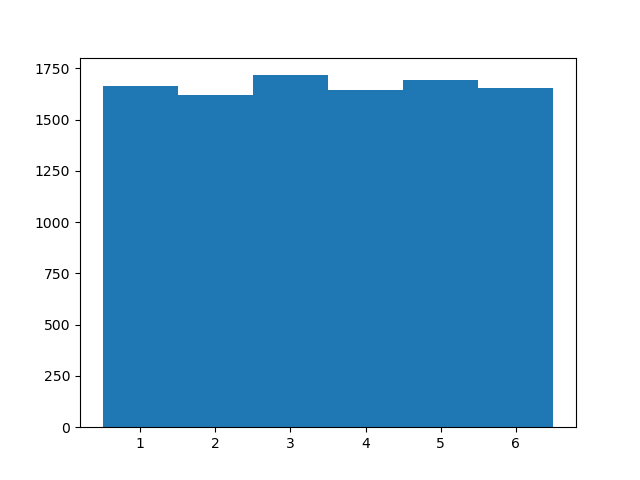
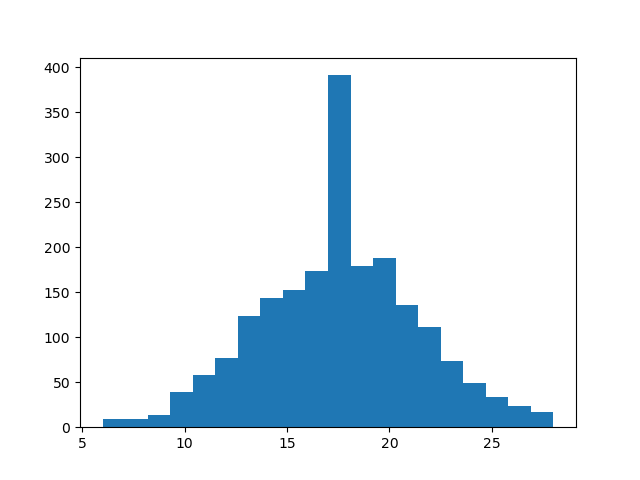
nearest_neighbors needs to have the loops resolved. Everything else works

diff --git a/lab6/np.exercises.py b/lab6/np.exercises.py
@@ -53,23 +53,17 @@ def simulate_dice_rolls(num_rolls, iterations):
     :return: 1-D NumPy array of length iterations, where each item is the
             sum of throwing a fair 6-sided die num_rolls times.
     """
-    histo_array = ([])
-    sum_roll_array = np.empty(iterations, dtype=int)
+
     sides_of_die = 6
-    for n in range(iterations):
-        die_array = np.arange(1, sides_of_die+1, 1)
-        all_rolls_array = np.empty(num_rolls, dtype=int)
-        for i in range(num_rolls):
-            roll = random.choice(die_array)
-            all_rolls_array[i] = roll
-        sum_roll_array[n] = all_rolls_array.sum()
-        histo_array = np.concatenate([histo_array, all_rolls_array])
-    d = np.diff(np.unique(histo_array)).min()
-    left_of_first_bin = histo_array.min() - float(d) / 2
-    right_of_last_bin = histo_array.max() + float(d) / 2
-    plt.hist(histo_array, np.arange(left_of_first_bin, right_of_last_bin + d, d))
+    die_number_set = list(range(1, sides_of_die+1))
+    random_rolls = np.random.randint(min(die_number_set), max(die_number_set)+1, iterations*num_rolls)
+    num_roll_sort = np.reshape(random_rolls, (iterations, num_rolls))
+    histo_array = np.sum(num_roll_sort, axis=1)
+
+    plt.hist(histo_array,20)
     plt.savefig('dice_{}_rolls_{}.png'.format(num_rolls, iterations))
-    return sum_roll_array
+
+    return histo_array
 
 
 def is_transformation_matrix(matrix=np.zeros((4,4))):
